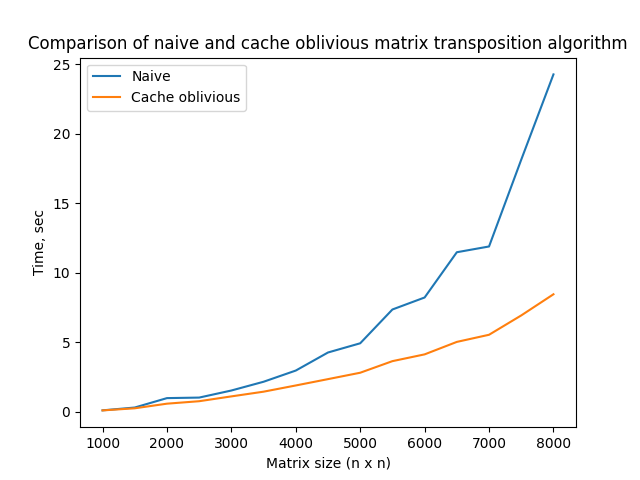
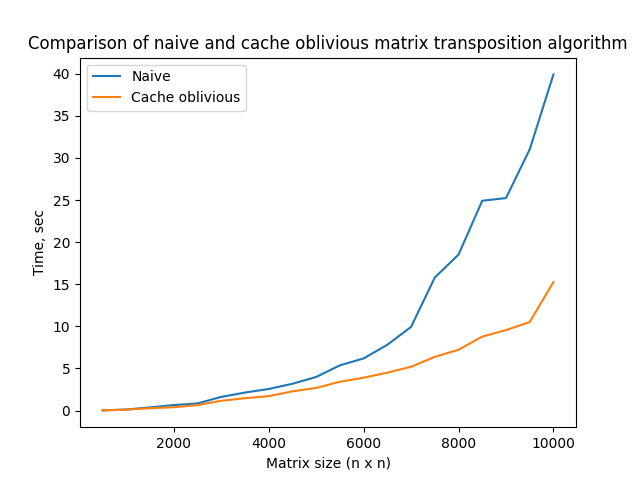
Minor updates

diff --git a/plot_graph.py b/plot_graph.py
@@ -6,7 +6,6 @@ size_data = [int(i.split()[0].strip()) for i in data]
 naive_time_data = [float(i.split()[1].strip()) for i in data]
 cache_oblivious_time_data = [float(i.split()[2].strip()) for i in data]
 
-# line 1 points
 x1 = size_data
 y1 = naive_time_data
 plt.plot(x1, y1, label="Naive")

diff --git a/README.md b/README.md
@@ -7,7 +7,7 @@
    стороне. После определённого размера будет транспонировать участок матрицы наивно.
 
 ## Результаты тестирования
-Данные получены в результате усреднения множества запусков `(5)` на интервале `[1000; 8000]` c шагом `500`: 
+Данные получены в результате усреднения множества запусков `(5)` на интервале `[500; 10000]` c шагом `500`: 
 ![Результаты тестирования](graph.png)
 
 Как видно по графику, при небольших значениях разницы нет, однако на больших значениях кэш-эффективный алгоритм явно выигрывает.
